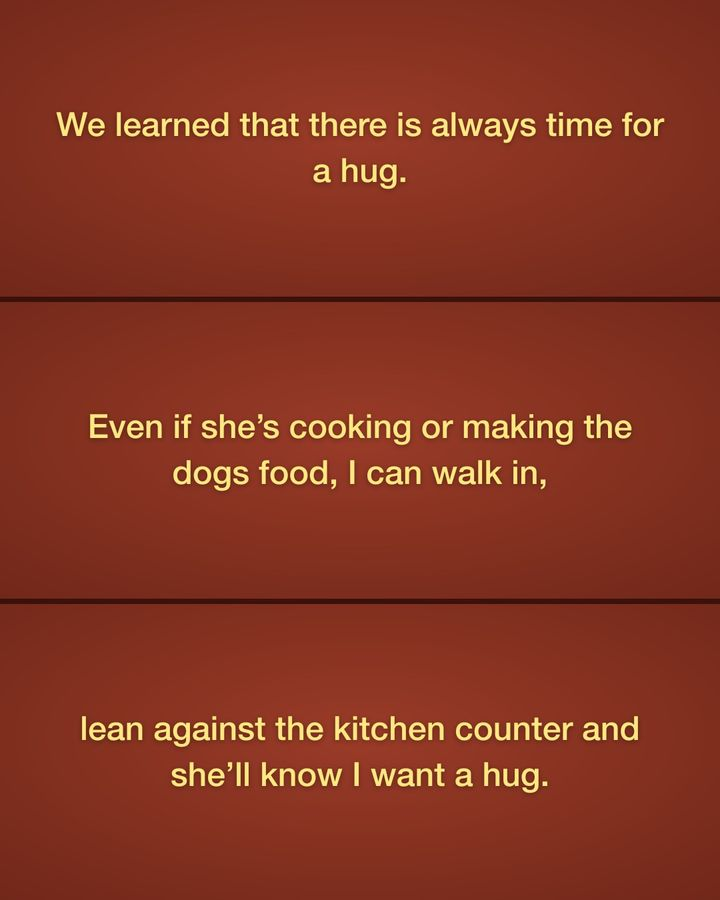
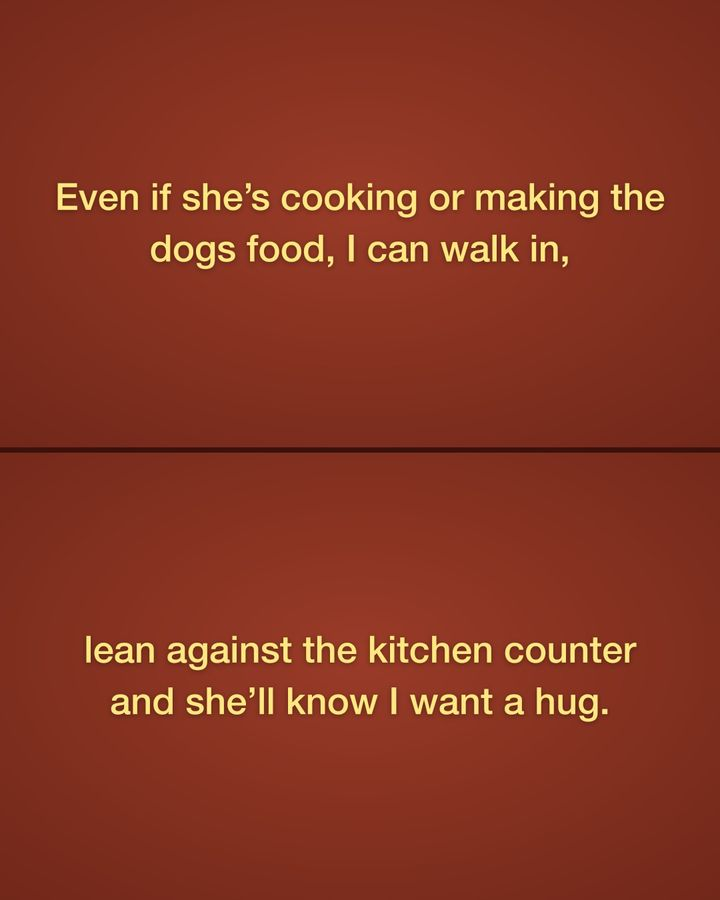
Slides 11-12: hug line moved

Changed region(s): [[0.0, 0.1244, 1.0, 0.3422], [0.0, 0.6533, 1.0, 0.9022], [0.0, 0.4356, 1.0, 0.56]]

diff --git a/index.html b/index.html
@@ -56,7 +56,7 @@
 
 
 <script>
-  const V = "1"; // bump after any slide change so phones don't show old cached slides
+  const V = "2"; // bump after any slide change so phones don't show old cached slides
   const N = 14, stage = document.getElementById("stage"), dots = document.getElementById("dots"), count = document.getElementById("count");
   const imgs = [];
   for (let i = 1; i <= N; i++) {
